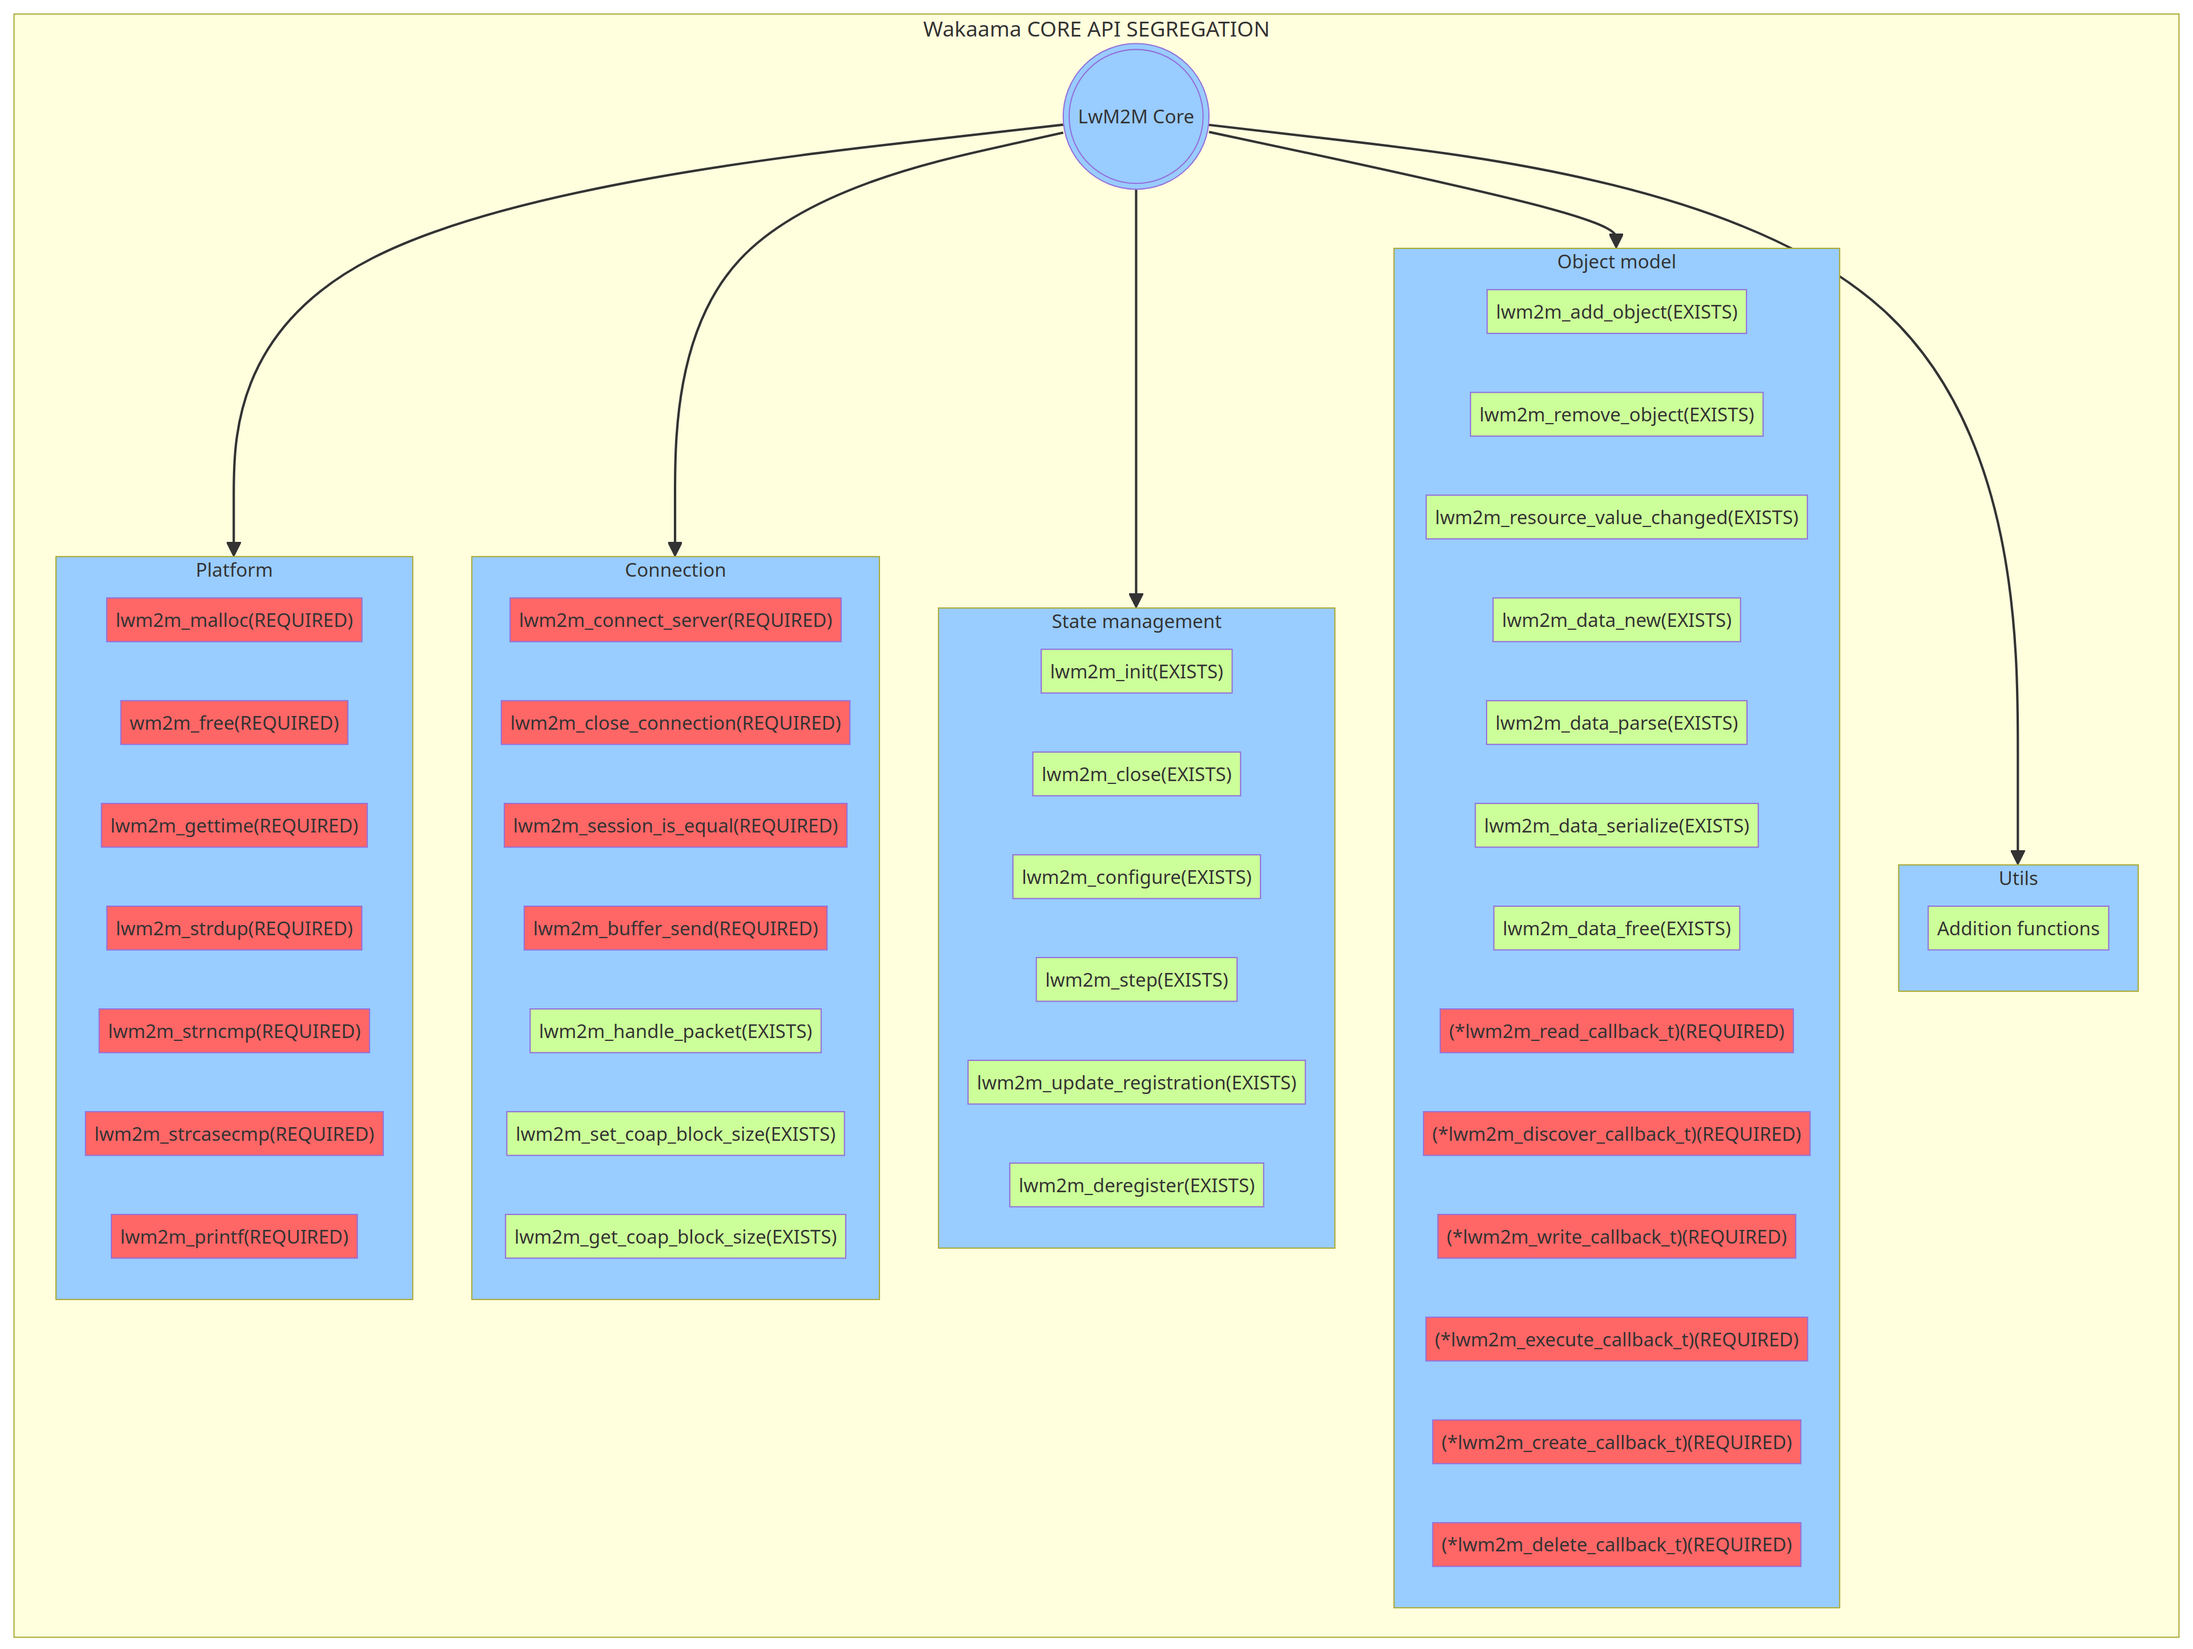
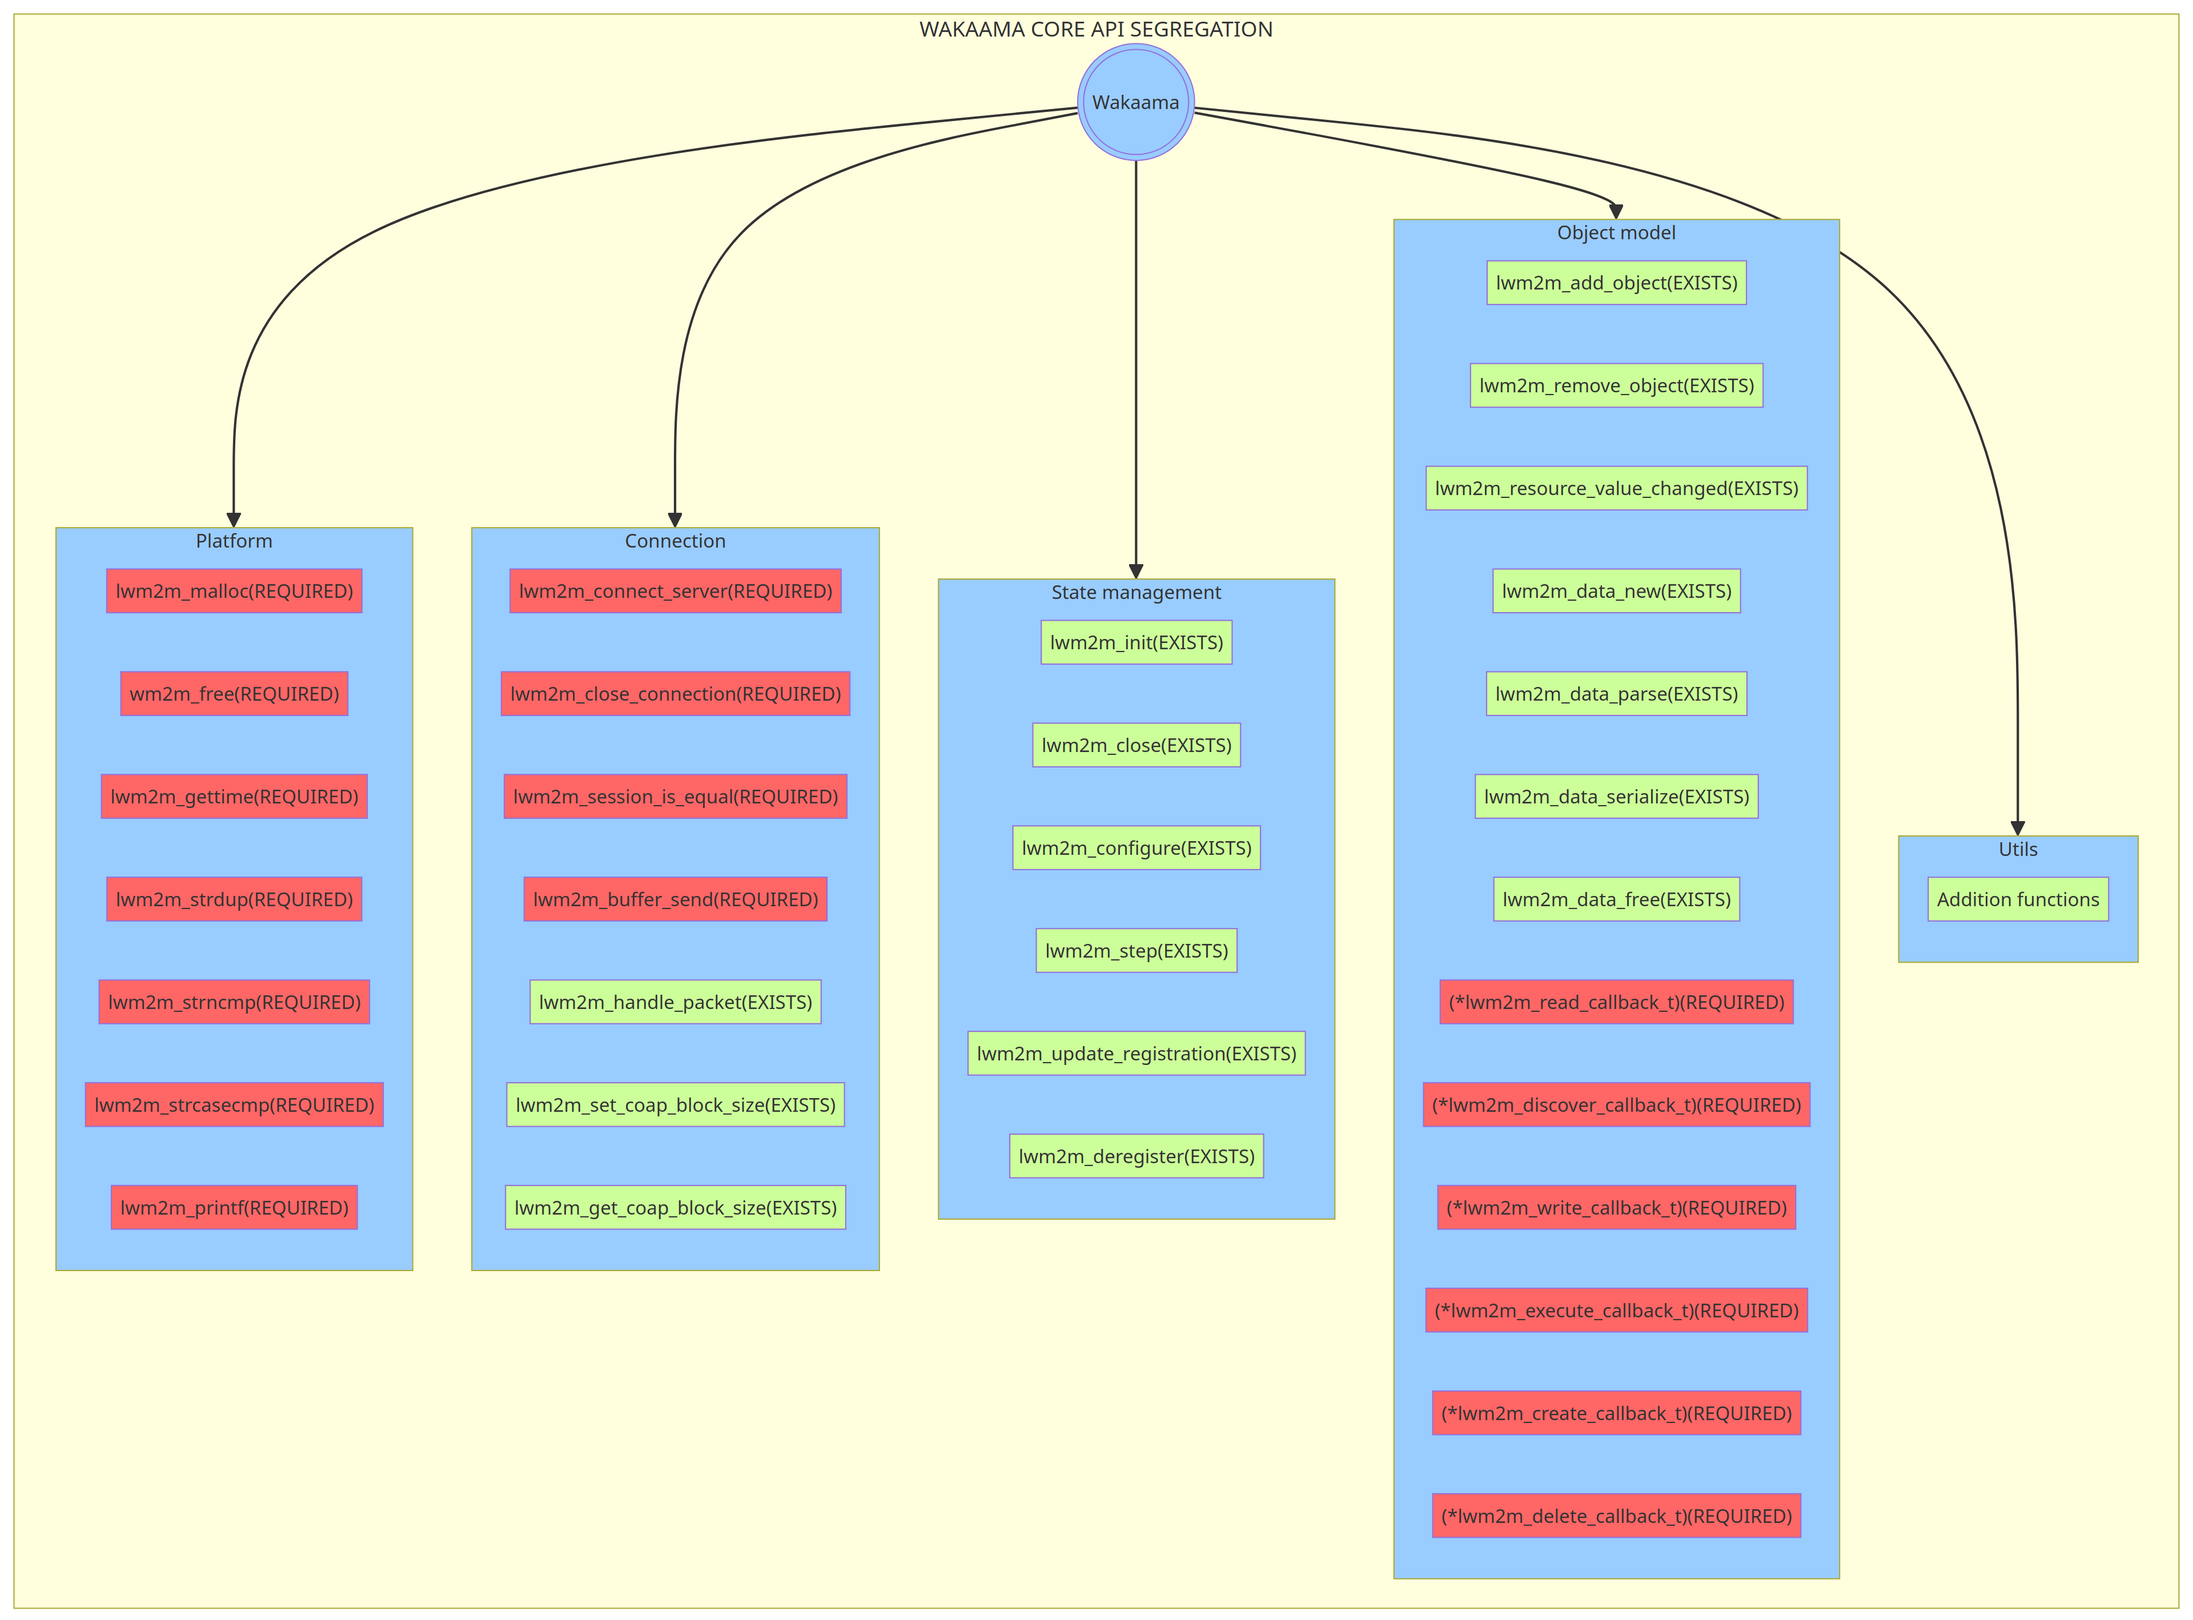
SN-1255 Created description for Overview and Components sections

diff --git a/docs/description/architecture.md b/docs/description/architecture.md
@@ -2,15 +2,19 @@
 
 ## Architecture Description
 
-#### Overview
+### Overview
 **WakaamaPlus**, also known as **Wpp**, is a project built upon the [**Wakaama**](https://github.com/eclipse/wakaama) project, which implements the **Lightweight Machine to Machine (LwM2M)** protocol. The architecture of **Wpp** is carefully designed to provide a high-level presentation of [**Wakaama**](https://github.com/eclipse/wakaama) functionalities while retaining control and flexibility.
 
-#### Components
+### Components
+Since **Wpp** is built upon the [**Wakaama**](https://github.com/eclipse/wakaama), the existing interfaces and capabilities of [**Wakaama**](https://github.com/eclipse/wakaama) affect the internal structure of **Wpp**. For a better understanding of what components should be present in **Wpp**, the [**Wakaama**](https://github.com/eclipse/wakaama) interface was segregated, based on it, the necessary components for **Wpp** were created.
+
+\image html images/wakaama_core_api_segregation.png width=950px
+
 **Wpp's** architecture is composed of several key components, each serving a distinct role:
 
 1. **State Management (WppClient)**: This component is responsible for the initialization of the [**Wakaama**](https://github.com/eclipse/wakaama) core, processing protocol states, managing server and object registrations.
    
-2. **Object Model (Object/Instance/Resource)**: This component is at the heart of **Wpp's** architecture. It defines the representation of objects at the [**Wakaama**](https://github.com/eclipse/wakaama) level, their structure, general functionality, and sets the interface for interaction with instances and resources of the object, updating [**Wakaama**](https://github.com/eclipse/wakaama) about resource changes made by the user.
+2. **Object Model (Object/Instance/Resource)**: This component is at the heart of **Wpp's** architecture. It defines the representation of objects at the **Wpp** level, their structure, general functionality, and sets the interface for interaction with instances and resources of the object, updating [**Wakaama**](https://github.com/eclipse/wakaama) about resource changes made by the user.
 
 3. **Object Registry (WppRegistry)**: A crucial component that functions as a registry for available LwM2M objects. It manages the creation and initialization of objects and allows the user to create Instances and manage their resources.
 
@@ -18,9 +22,13 @@
 
 5. **Platform**: This defines the interface for environment-dependent functions like memory allocation, logs printing, and time retrieval, and is entirely implemented by the user.
 
-6. **Utilities**: Includes various tools that is used by **Wpp**.
+6. **Utils (utils)**: Includes various tools that is used by **Wpp**.
 
-#### User Interfaces
+The diagram below shows the common **Wpp** components with their dependencies on [**Wakaama**](https://github.com/eclipse/wakaama). A part of the [**Wakaama**](https://github.com/eclipse/wakaama) library with its components is highlighted in **yellow**, and a part of the **Wpp** library is highlighted in **green**. The dependencies of the environment and the user program from the **Wpp** library are also indicated.
+
+\image html images/wpp_dependencies_from_wakaama.jpg width=650px
+
+### User Interfaces
 Wpp includes three main interfaces:
 
 1. **WppConnection**: Implemented by the user, it enables the opening of a connection with the server and facilitates data transfer.
